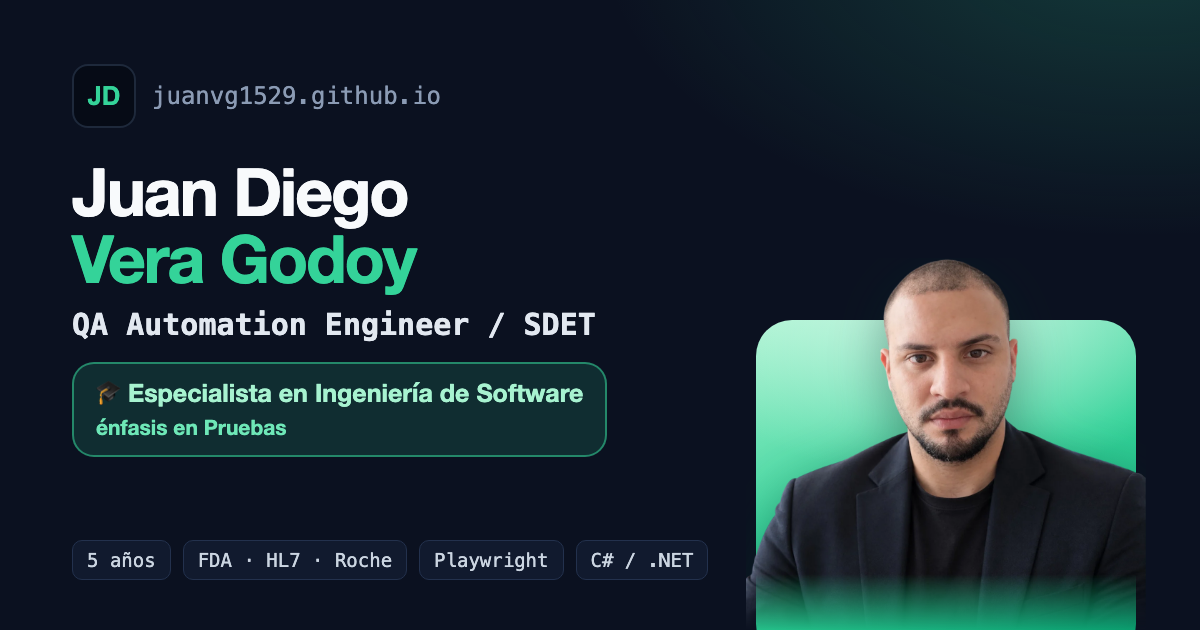
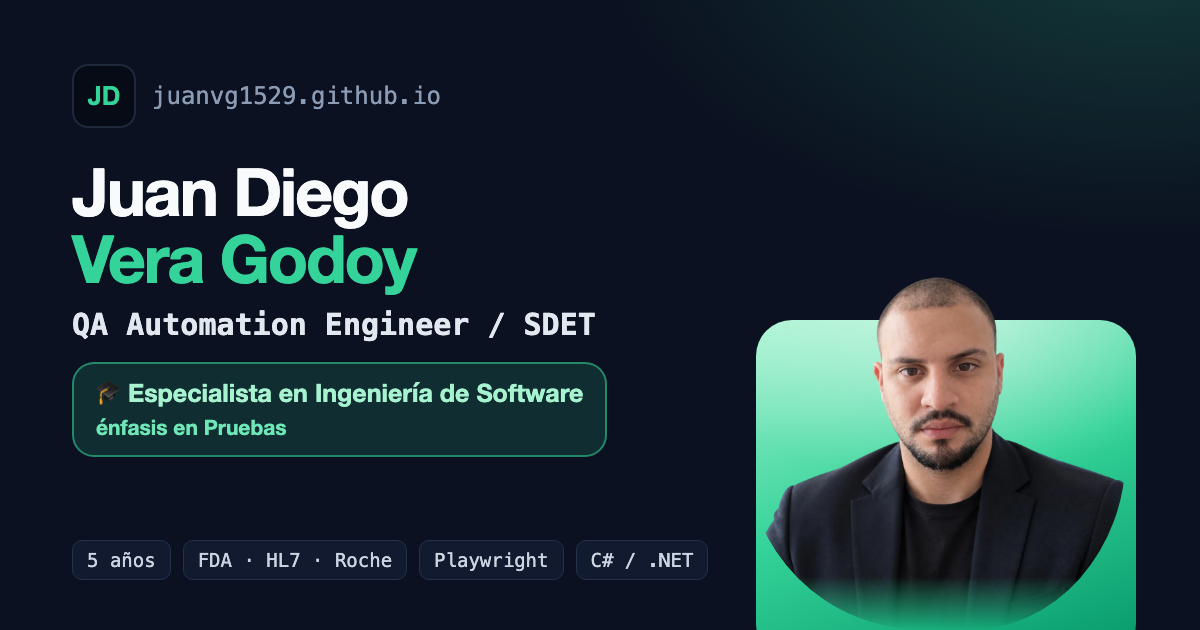
Keep the portrait inside its panel
Apply Juan Diego's adjustment (padding-right: 20px; border-radius: 250px)
so the shoulders no longer stick out of the panel, and remove the
photo's drop-shadow, which drew a grey dome around the head once the
box was rounded. The link preview image gets the same treatment.

Changed region(s): [[0.6783, 0.3921, 0.9558, 0.9952], [0.6167, 0.8143, 0.7092, 0.9952], [0.6475, 0.754, 0.6783, 0.7841]]

diff --git a/styles.css b/styles.css
@@ -407,10 +407,10 @@ h2 { margin: 0; font-size: clamp(1.7rem, 3.2vw, 2.4rem); line-height: 1.15; lett
   background-image: radial-gradient(rgba(255,255,255,.9) 1.2px, transparent 1.3px); background-size: 18px 18px;
   mask-image: linear-gradient(180deg, #000 0%, transparent 70%); -webkit-mask-image: linear-gradient(180deg, #000 0%, transparent 70%); }
 .hero-stage picture { position: absolute; inset: 0; display: flex; align-items: flex-end; justify-content: center; }
-.portrait { position: relative; z-index: 1; width: 100%; height: auto; display: block; border-radius: 0 0 32px 32px;
+.portrait { position: relative; z-index: 1; width: 100%; height: auto; display: block; padding-right: 20px; border-radius: 250px;
   /* Soft fade where the photo ends, instead of a hard cut at the jacket. */
-  mask-image: linear-gradient(180deg, #000 82%, transparent 100%); -webkit-mask-image: linear-gradient(180deg, #000 82%, transparent 100%);
-  filter: drop-shadow(0 18px 30px rgba(2, 44, 34, .35)); }
+  mask-image: linear-gradient(180deg, #000 82%, transparent 100%); -webkit-mask-image: linear-gradient(180deg, #000 82%, transparent 100%); }
+/* No drop-shadow on the photo: with the rounded box it drew a grey dome around the head. The panel carries the shadow. */
 
 /* Floating glass cards around the photo */
 .float-card { position: absolute; z-index: 2; display: flex; align-items: center; gap: 10px; padding: 10px 14px; border-radius: 16px;
